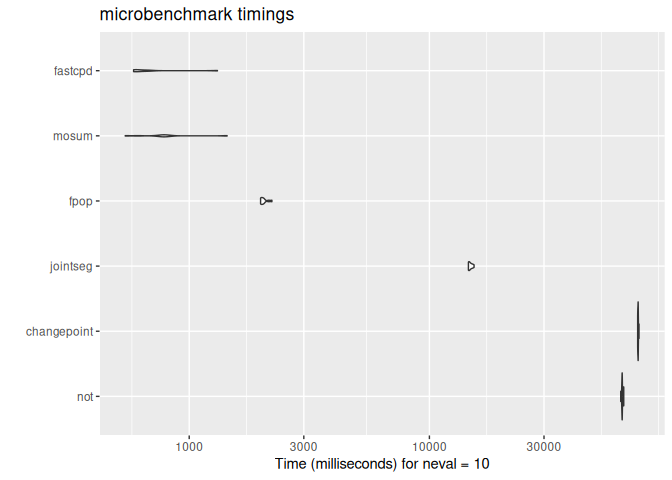
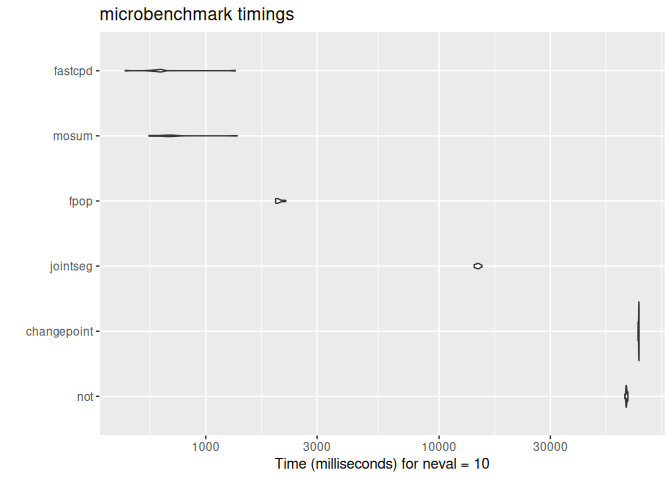
Update fastcpd 1.0.1
*   Add `exponential` family to Python package (`fastcpd.segmentation.exponential`).
*   Fix Bazel build for Python CI: add missing `fastcpd_optim.h` and
    `families/exponential.h` to `hdrs` in `src/BUILD.bazel`.
*   Improve README benchmark methodology: use subprocess isolation via
    `callr::r()` inside `microbenchmark` with baseline subtraction for fair
    large-scale (n = 10^8) algorithm comparison.
*   Skip slow tests during coverage runs to prevent CI timeout.

diff --git a/README.md b/README.md
@@ -115,6 +115,16 @@ ggplot2::autoplot(microbenchmark(
   fastcpd = fastcpd::fastcpd.mean(mean_data, r.progress = FALSE, cp_only = TRUE, variance_estimation = 1),
   times = 10
 ))
+#> Warning: no DISPLAY variable so Tk is not available
+#> Warning: `aes_string()` was deprecated in ggplot2 3.0.0.
+#> ℹ Please use tidy evaluation idioms with `aes()`.
+#> ℹ See also `vignette("ggplot2-in-packages")` for more information.
+#> ℹ The deprecated feature was likely used in the microbenchmark package.
+#>   Please report the issue at
+#>   <https://github.com/joshuaulrich/microbenchmark/issues/>.
+#> This warning is displayed once per session.
+#> Call `lifecycle::last_lifecycle_warnings()` to see where this warning was
+#> generated.
 ```
 
 ![](man/figures/README-time-comparison-small-1.png)<!-- -->
@@ -124,25 +134,58 @@ library(microbenchmark)
 set.seed(1)
 n <- 10^8
 mean_data <- c(rnorm(n / 2, 0, 1), rnorm(n / 2, 50, 1))
-system.time(fastcpd::fastcpd.mean(mean_data, r.progress = FALSE, cp_only = TRUE, variance_estimation = 1))
+run_isolated <- function(expr) {
+  callr::r(function(e, n) {
+    set.seed(1)
+    mean_data <- c(rnorm(n / 2, 0, 1), rnorm(n / 2, 50, 1))
+    system.time(eval(e))
+  }, args = list(e = substitute(expr), n = n))
+}
+print(run_isolated(fastcpd::fastcpd.mean(mean_data, r.progress = FALSE, cp_only = TRUE, variance_estimation = 1)))
 #>    user  system elapsed 
-#>   9.866   4.932  14.831
-system.time(mosum::mosum(c(mean_data), G = 40))
+#>   9.492   6.798  15.957
+print(run_isolated(mosum::mosum(c(mean_data), G = 40)))
 #>    user  system elapsed 
-#>   9.229   6.694  15.936
-system.time(fpop::Fpop(mean_data, 2 * log(n)))
+#>   9.086   6.671  15.763
+print(run_isolated(fpop::Fpop(mean_data, 2 * log(n))))
 #>    user  system elapsed 
-#>  44.848   2.346  47.220
-system.time(changepoint::cpt.mean(mean_data, method = "PELT"))
-#>     user   system  elapsed 
-#>  468.840  956.814 1479.480
-ggplot2::autoplot(microbenchmark(
-  changepoint = changepoint::cpt.mean(mean_data, method = "PELT"),
-  fpop = fpop::Fpop(mean_data, 2 * log(n)),
-  mosum = mosum::mosum(c(mean_data), G = 40),
-  fastcpd = fastcpd::fastcpd.mean(mean_data, r.progress = FALSE, cp_only = TRUE, variance_estimation = 1),
-  times = 10
-))
+#>  44.762   2.641  47.437
+print(run_isolated(changepoint::cpt.mean(mean_data, method = "PELT")))
+#>    user  system elapsed 
+#>  31.272   6.148  37.430
+mb_result <- microbenchmark(
+  baseline = callr::r(function(n) {
+    set.seed(1)
+    mean_data <- c(rnorm(n / 2, 0, 1), rnorm(n / 2, 50, 1))
+  }, args = list(n = n)),
+  changepoint = callr::r(function(n) {
+    set.seed(1)
+    mean_data <- c(rnorm(n / 2, 0, 1), rnorm(n / 2, 50, 1))
+    changepoint::cpt.mean(mean_data, method = "PELT")
+  }, args = list(n = n)),
+  fpop = callr::r(function(n) {
+    set.seed(1)
+    mean_data <- c(rnorm(n / 2, 0, 1), rnorm(n / 2, 50, 1))
+    fpop::Fpop(mean_data, 2 * log(n))
+  }, args = list(n = n)),
+  mosum = callr::r(function(n) {
+    set.seed(1)
+    mean_data <- c(rnorm(n / 2, 0, 1), rnorm(n / 2, 50, 1))
+    mosum::mosum(c(mean_data), G = 40)
+  }, args = list(n = n)),
+  fastcpd = callr::r(function(n) {
+    set.seed(1)
+    mean_data <- c(rnorm(n / 2, 0, 1), rnorm(n / 2, 50, 1))
+    fastcpd::fastcpd.mean(mean_data, r.progress = FALSE, cp_only = TRUE, variance_estimation = 1)
+  }, args = list(n = n)),
+  times = 5
+)
+baseline_median <- median(mb_result$time[mb_result$expr == "baseline"])
+mb_net <- mb_result[mb_result$expr != "baseline", ]
+mb_net$time <- mb_net$time - baseline_median
+mb_net$expr <- droplevels(mb_net$expr)
+class(mb_net) <- class(mb_result)
+ggplot2::autoplot(mb_net)
 ```
 
 ![](man/figures/README-time-comparison-large-1.png)<!-- -->

diff --git a/NEWS.md b/NEWS.md
@@ -1,3 +1,13 @@
+# fastcpd 1.0.1
+
+*   Add `exponential` family to Python package (`fastcpd.segmentation.exponential`).
+*   Fix Bazel build for Python CI: add missing `fastcpd_optim.h` and
+    `families/exponential.h` to `hdrs` in `src/BUILD.bazel`.
+*   Improve README benchmark methodology: use subprocess isolation via
+    `callr::r()` inside `microbenchmark` with baseline subtraction for fair
+    large-scale (n = 10^8) algorithm comparison.
+*   Skip slow tests during coverage runs to prevent CI timeout.
+
 # fastcpd 1.0.0
 
 *   Add `exponential` family (`fastcpd_exponential` / `fastcpd.exponential`)